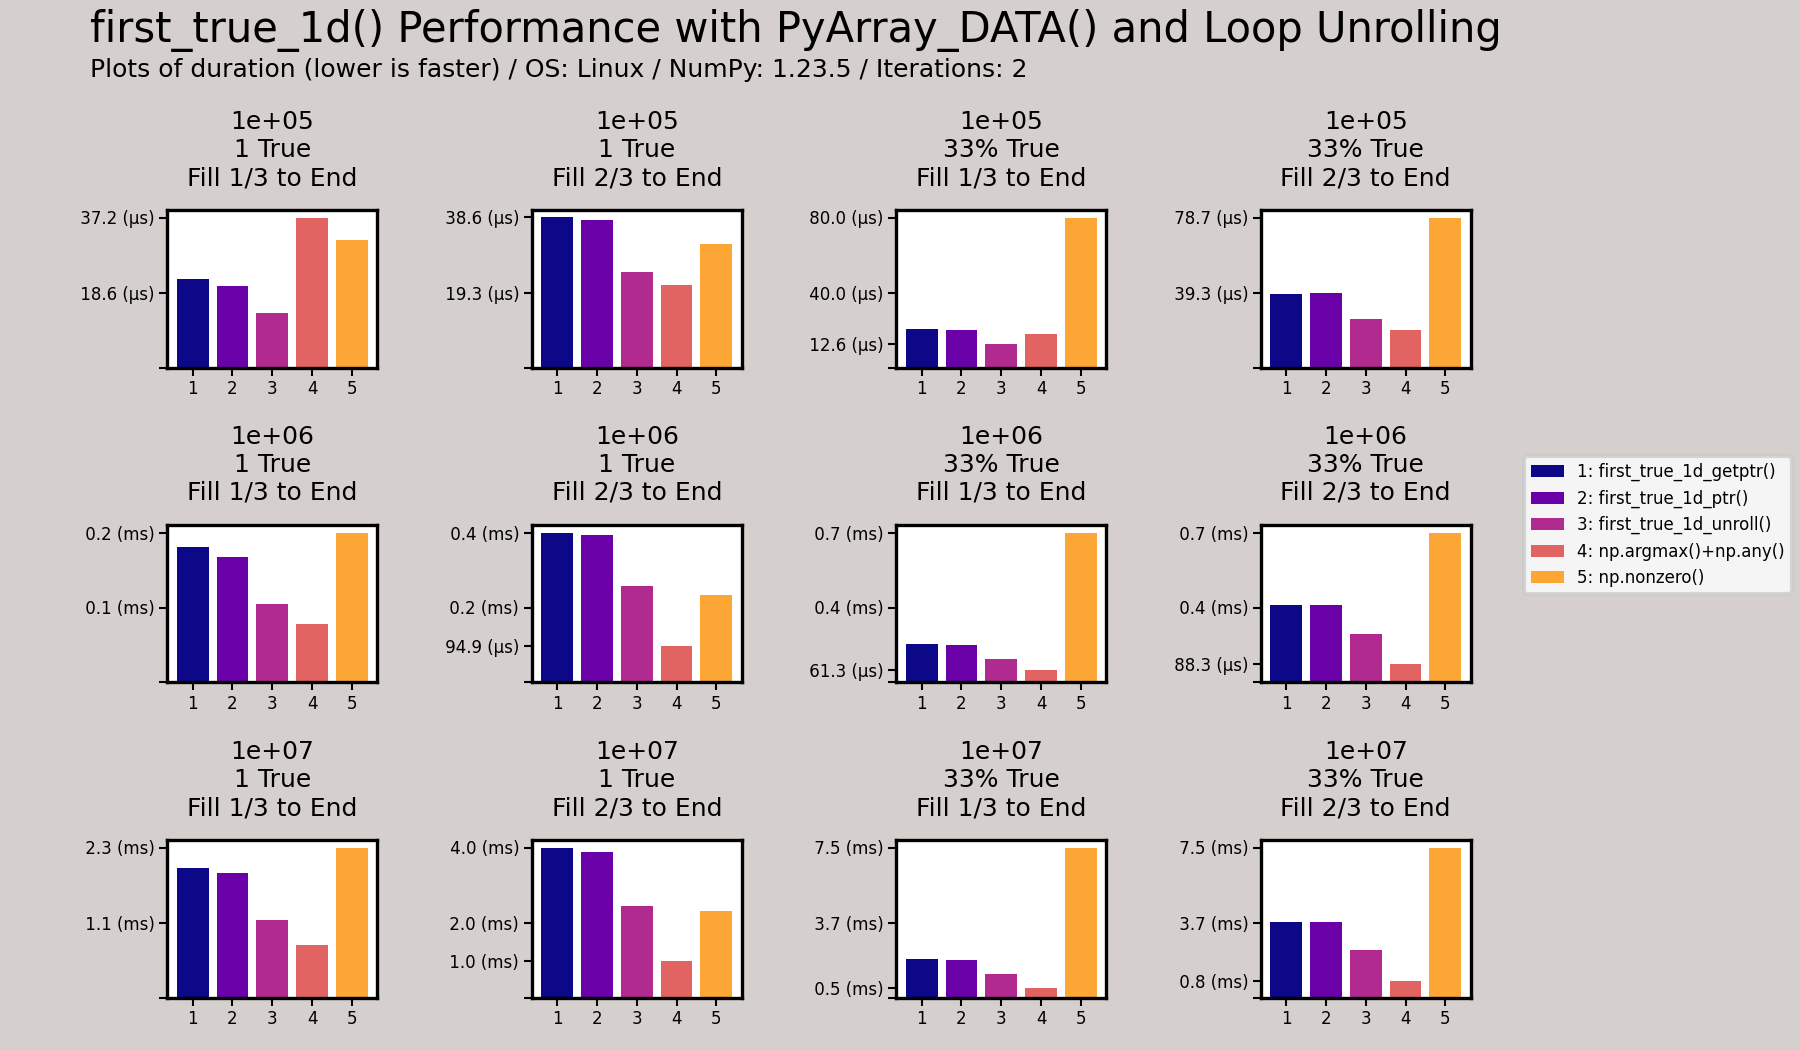
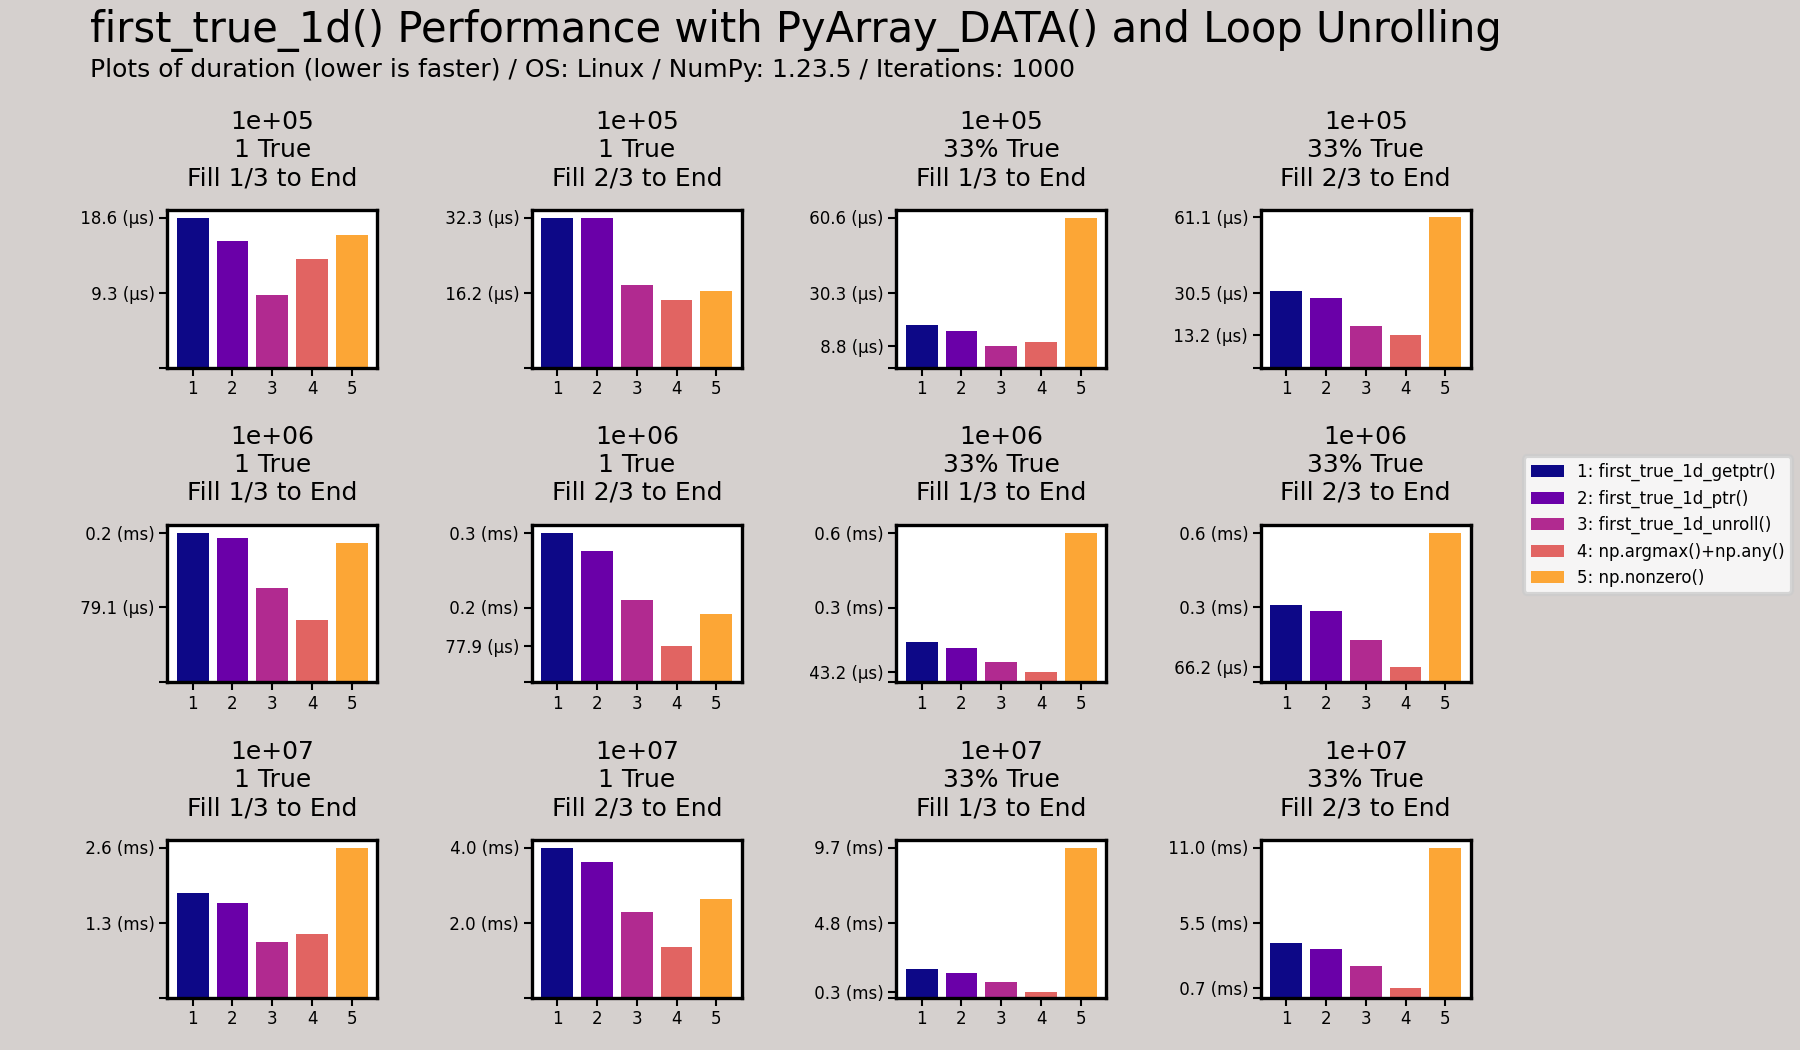
updated diagrams

diff --git a/doc/plot/first_true_1d.py b/doc/plot/first_true_1d.py
@@ -283,7 +283,7 @@ if __name__ == '__main__':
                 processors=processors,
                 fp=directory / fn,
                 title=title,
-                number=2,
+                number=1000,
                 )
 
 
